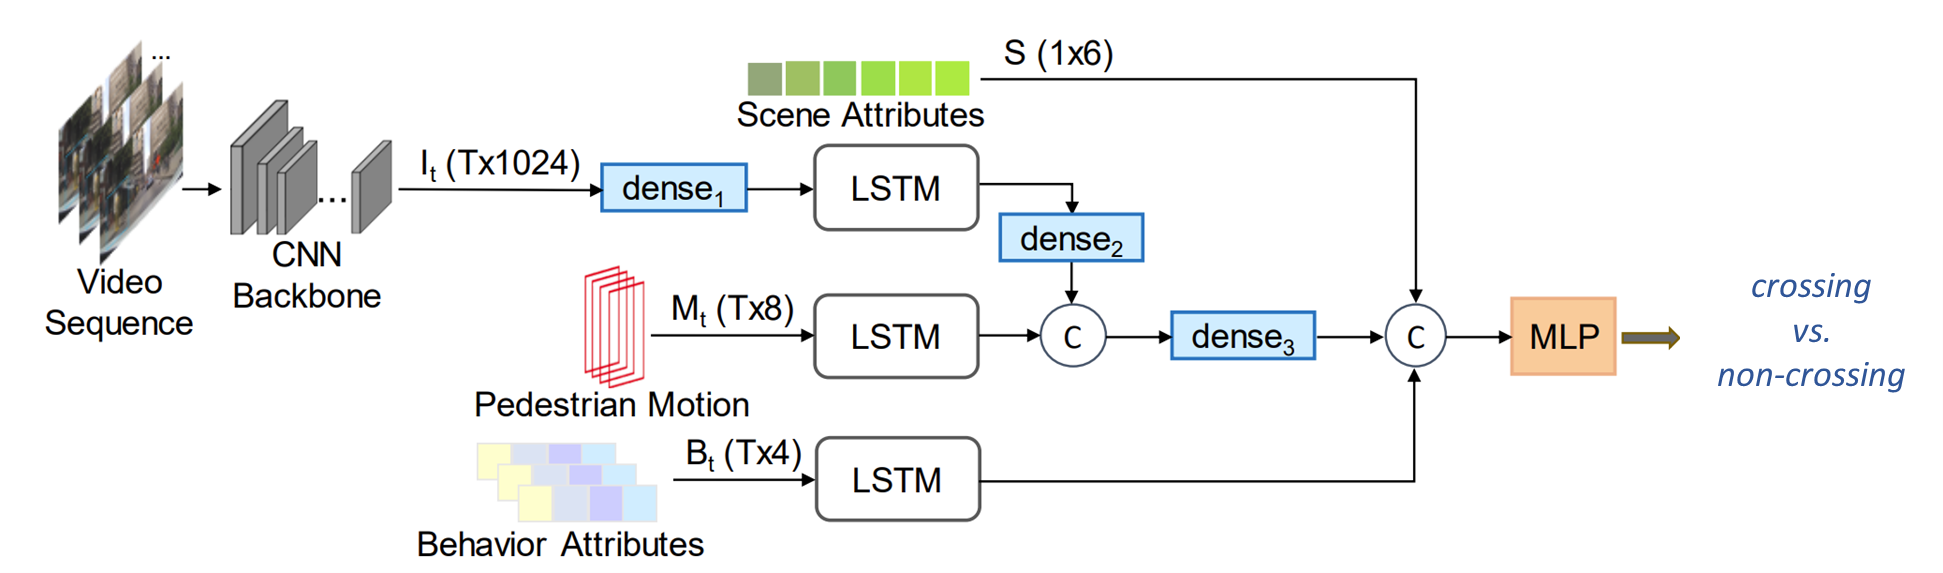
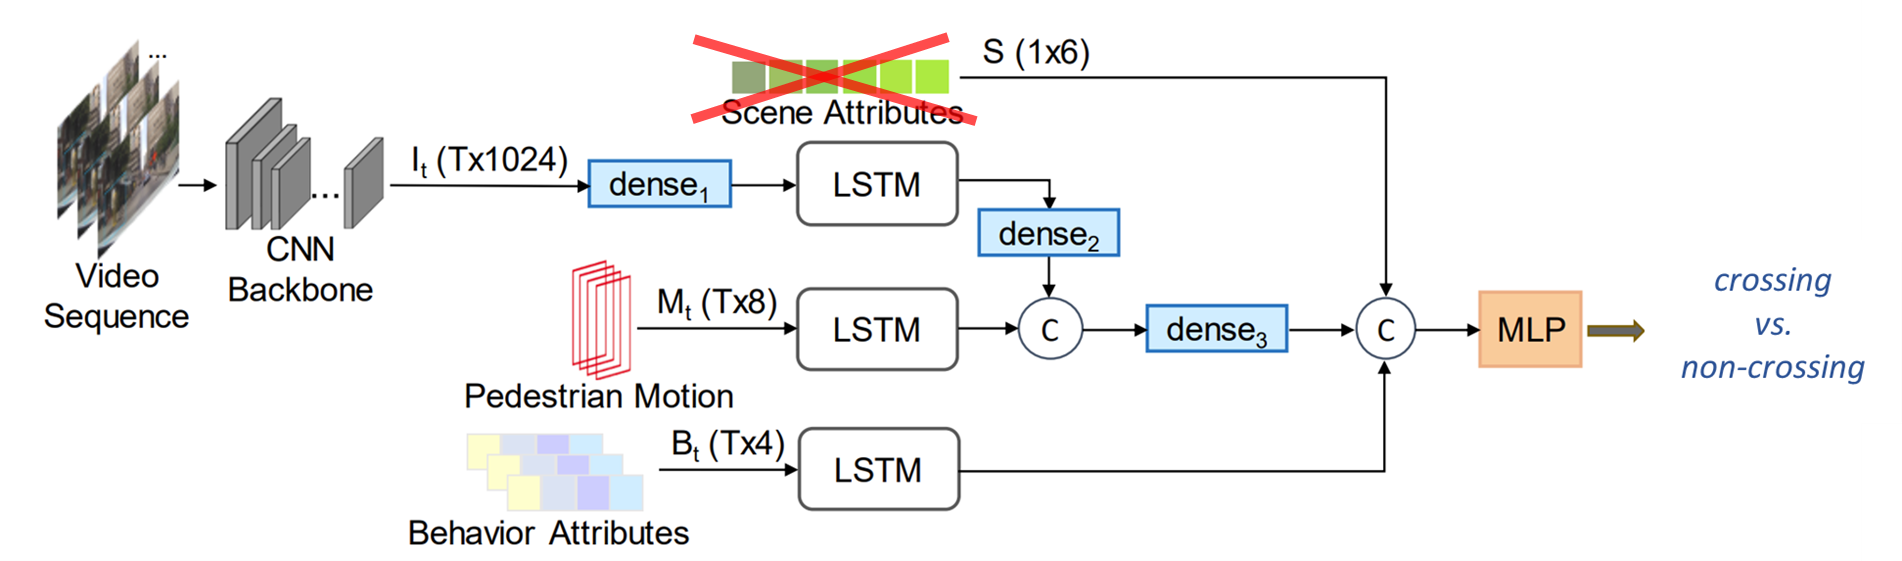
update readme

Changed region(s): [[0.3412, 0.0606, 0.5273, 0.2121]]

diff --git a/README.md b/README.md
@@ -6,8 +6,10 @@ The goal of pedestrian intention prediction is to determine, for each prediction
 ![Task](figure/task.png)
 
 ### Contribution Overview
-Drawing inspiration from the *Pedestrian Stop and Go Forecasting with Hybrid Feature Fusion* [1], which focuses on state transition prediction, we adapt their model and approach to our specific crossing/non-crossing task. The model including four modules: **visual information** (encode with CNN), **position and relative velocity** (bounding box), **pedestrain behavior**, **scene description**.
+Drawing inspiration from the *Pedestrian Stop and Go Forecasting with Hybrid Feature Fusion* [1], which focuses on state transition prediction, we adapt their model and approach to our specific crossing/non-crossing task. The model including four modules: **visual information** (encode with CNN), **position and relative velocity** (bounding box), **pedestrain behavior**, **scene description**. Due to the model's tendency to overfit on scene attributes and the resulting negative impact on evaluation results, we decided to remove scene descriptions. This allows the model to focus on learning other relevant information more effectively.
+
 ![Model](figure/model.png)
+
 The model employs individual LSTM units for three of modalities and applies a hybrid fusion technique, combining linear projections and concatenations, to integrate the multi-modal embeddings and obtain the final prediction.
 
 Furthermore, we substitute the CNN backbone (Resnet18) with MobileNet to leverage the efficiency of separable convolutions. This prioritizes improving the model's real-time performance by increasing speed rather than emphasizing quality.
@@ -30,20 +32,39 @@ b<sup>t</sup><sub>look</sub> -> {0: 'not-looking', 1: 'looking'}
 b<sup>t</sup><sub>nod</sub> -> {0: 'undefined', 1: 'nodding'}
 b<sup>t</sup><sub>hand</sub> -> {0: 'undefined', 1: 'greet',2: 'yield', 3: 'rightofway', 4: 'other'}
 ** To avoid information leakage, we removed the binary label indicating walking/non-walking.
-- **scene descriptions**:  (s<sub>tl</sub>, s<sub>in</sub>, s<sub>de</sub>, s<sub>si</sub>, s<sub>td</sub>)
-s<sub>tl</sub> -> number of traffic lanes
-s<sub>in</sub> ->  if is an intersection
-s<sub>de</sub> -> if an intersection is designated with a zebra crossing or a traffic signal
-s<sub>si</sub> ->  if an intersection is signalized
-s<sub>td</sub> ->  traffic direction (one/two-way) 
-** To avoid information leakage, we removed the label indicating pedestrian
-motion direction (lateral or longitudinal).
+
 ### Output
 - **p<sub>t</sub>**: the probability of crossing for each of the prediction timesteps
 
+### Download dataset
 
+Please follow the [instructions](https://github.com/vita-epfl/pedestrian-transition-dataset#data-preparation) to prepare the JAAD data.
+Furthermore, the prepared data also could be find in "/work/scitas-share/datasets/Vita/civil-459"
+```
+#Replace the follwing path in src/dataset/loader.py -> def define_path() to your own path
+all_anns_paths = {'JAAD': {'anns': '/work/scitas-share/datasets/Vita/civil-459/JAAD/data_cache/jaad_database.pkl',
+                          'split': 'DATA/annotations/JAAD/splits/'},
+                           }
+all_image_dir = {'JAAD': '/work/scitas-share/datasets/Vita/civil-459/JAAD/images',}
+```
 
 ## Installation
+Clone this repository in order to use it.
+```
+# To clone the repository using HTTPS
+git clone ????????????????????????????
+cd ??????????????????/
+```
+
+All dependencies can be found in the `requirements.txt` file.
+```
+# To install dependencies
+pip install -r requirements.txt
+# To install torch with cuda
+pip install torch==1.10.1+cu111 torchvision==0.11.2+cu111 torchaudio==0.10.1 -f https://download.pytorch.org/whl/cu111/torch_stable.html
+```
+
+This project has been tested with Python 3.7.7, PyTorch 1.10.1, CUDA 11.1.
 
 ## Train
 
